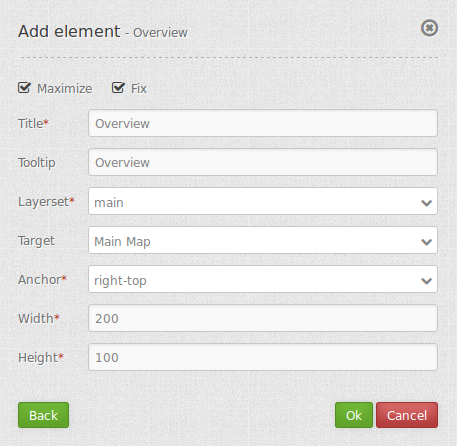
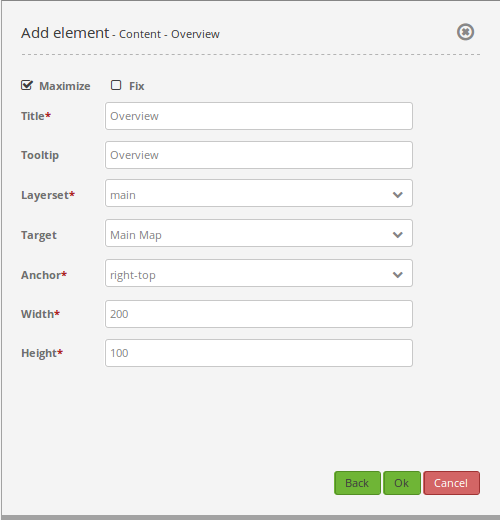
Updated englisch documentation for Overview element

diff --git a/en/functions/basic/overview.rst b/en/functions/basic/overview.rst
@@ -39,15 +39,15 @@ Configuration example
 
 There are different settings for the overview element:
 
-.. image:: ../../../figures/de/overview_example_dialog.png
+.. image:: ../../../figures/overview_example_dialog.png
      :scale: 80
 
 In the configuration example we implement the element (*Title*) "Overview". With *Layerset* we can select all previously implemented layersets. In this example we have two to choose from:
 
-.. image:: ../../../figures/de/map_example_layersets.png
+.. image:: ../../../figures/map_example_layersets.png
      :scale: 80
 
-For the overview we choose the layerset YAML-overview. As *Target* we choose the element referenced. *Anchor* defines where the overview will be implemented (left-top, left-bottom, right-top or right-bottom). In this instance we choese right-bottom. *Width* and *Height* define the size of the window displaying the overview. Default settings are 200 and 100. Additionally it is possible to check the boxes *Maximize* and *Fix*. For the configuration example both checkmarks are set. Because of this the aplication will be maximized when opened. Additionally the map view is fixed. The excerpt shown of the map in the overview window wont change when the map is dragged and shows the maximum extend defined in `Map Element <map.html>`.
+For the overview we choose the layerset overview. As *Target* we choose the element referenced. *Anchor* defines where the overview will be implemented (left-top, left-bottom, right-top or right-bottom). In this instance we choese right-bottom. *Width* and *Height* define the size of the window displaying the overview. Default settings are 200 and 100. Additionally it is possible to check the boxes *Maximize* and *Fix*. For the configuration example both checkmarks are set. Because of this the aplication will be maximized when opened. Additionally the map view is fixed. The excerpt shown of the map in the overview window wont change when the map is dragged and shows the maximum extend defined in `Map Element <map.html>`.
 
 .. image:: ../../../figures/de/overview_example_right-bottom_fixed.png
      :scale: 80
